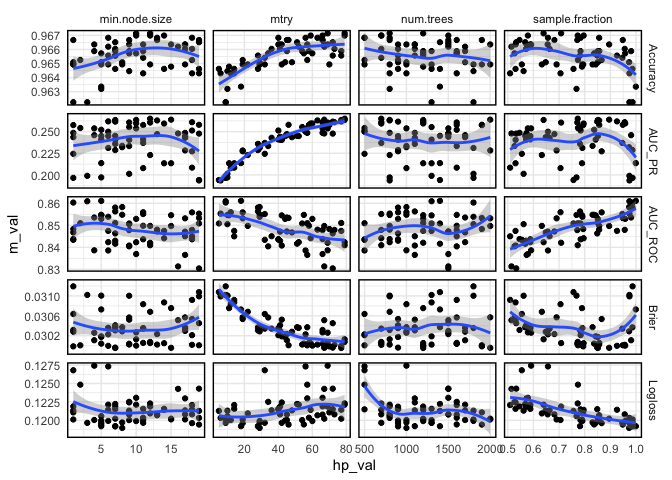
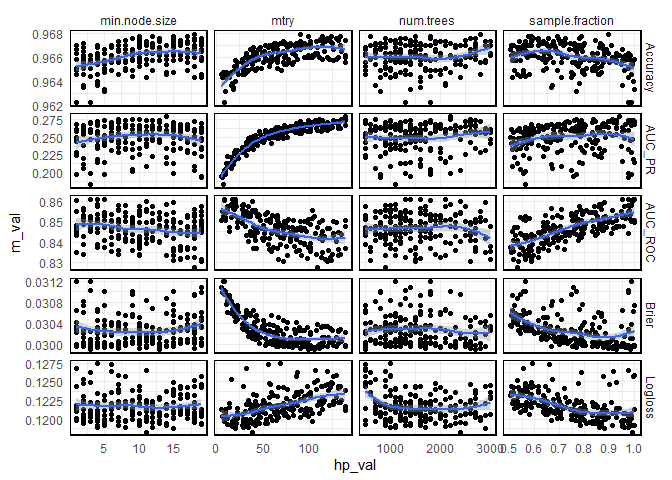
more tune samples for models 4 and 5

diff --git a/Models/tuning-model5.md b/Models/tuning-model5.md
@@ -1,7 +1,7 @@
 xgboost (model 5) tuning results
 ================
 andybega
-2021-03-13
+2021-03-14
 
 ``` r
 suppressPackageStartupMessages({
@@ -17,7 +17,7 @@ res <- readRDS(here("Models/output/tuning/model5-tuning.rds"))
 print(nrow(res))
 ```
 
-    ## [1] 16
+    ## [1] 200
 
 ``` r
 res %>%
@@ -26,7 +26,7 @@ res %>%
   group_by(hp) %>%
   filter(length(unique(hp_val)) > 1) %>%
   ungroup() %>%
-  pivot_longer(Brier:AUC_PR, names_to = "measure", values_to = "m_val") %>%
+  pivot_longer(Brier:time, names_to = "measure", values_to = "m_val") %>%
   ggplot(aes(x = hp_val, y = m_val, group = interaction(hp, measure))) +
   facet_grid(measure ~ hp, scales = "free") +
   geom_point() +
@@ -39,3 +39,27 @@ res %>%
     ## `geom_smooth()` using method = 'loess' and formula 'y ~ x'
 
 ![](tuning-model5_files/figure-gfm/unnamed-chunk-1-1.png)<!-- -->
+
+``` r
+res %>%
+  filter(nrounds > 25, max_delta_step > .5,
+         eta > .1, eta < .6,
+         min_child_weight > 1) %>%
+  pivot_longer(nrounds:alpha, names_to = "hp", values_to = "hp_val") %>%
+  # filter out HP that are constant, i.e. not being tuned
+  group_by(hp) %>%
+  filter(length(unique(hp_val)) > 1) %>%
+  ungroup() %>%
+  pivot_longer(Brier:time, names_to = "measure", values_to = "m_val") %>%
+  ggplot(aes(x = hp_val, y = m_val, group = interaction(hp, measure))) +
+  facet_grid(measure ~ hp, scales = "free") +
+  geom_point() +
+  geom_smooth() +
+  theme_minimal() +
+  labs(y = "Accuracy measure value", x = "HP value") +
+  theme(panel.border = element_rect(colour = "black", fill=NA, size=1))
+```
+
+    ## `geom_smooth()` using method = 'loess' and formula 'y ~ x'
+
+![](tuning-model5_files/figure-gfm/unnamed-chunk-1-2.png)<!-- -->

diff --git a/Models/tuning-model4.md b/Models/tuning-model4.md
@@ -1,5 +1,7 @@
 Tuning results for random forest (model 4)
 ================
+andybega
+2021-03-13
 
 ``` r
 suppressPackageStartupMessages({
@@ -28,7 +30,8 @@ res %>%
 
 ![](tuning-model4_files/figure-gfm/unnamed-chunk-1-1.png)<!-- -->
 
-Prior to v11, num.trees and mtry were tuned using a self-tuning model
-(`mlr`’s `TuneWrapper`). Doesn’t make much sense to tune num.trees. A
-value of 1,000 seems to be sufficient. Tune the other three parameters
-instead.
+``` r
+# Prior to v11, num.trees and mtry were tuned using a self-tuning model
+# (`mlr`'s `TuneWrapper`). Doesn't make much sense to tune num.trees. A value
+# of 1,000 seems to be sufficient. Tune the other three parameters instead.
+```
